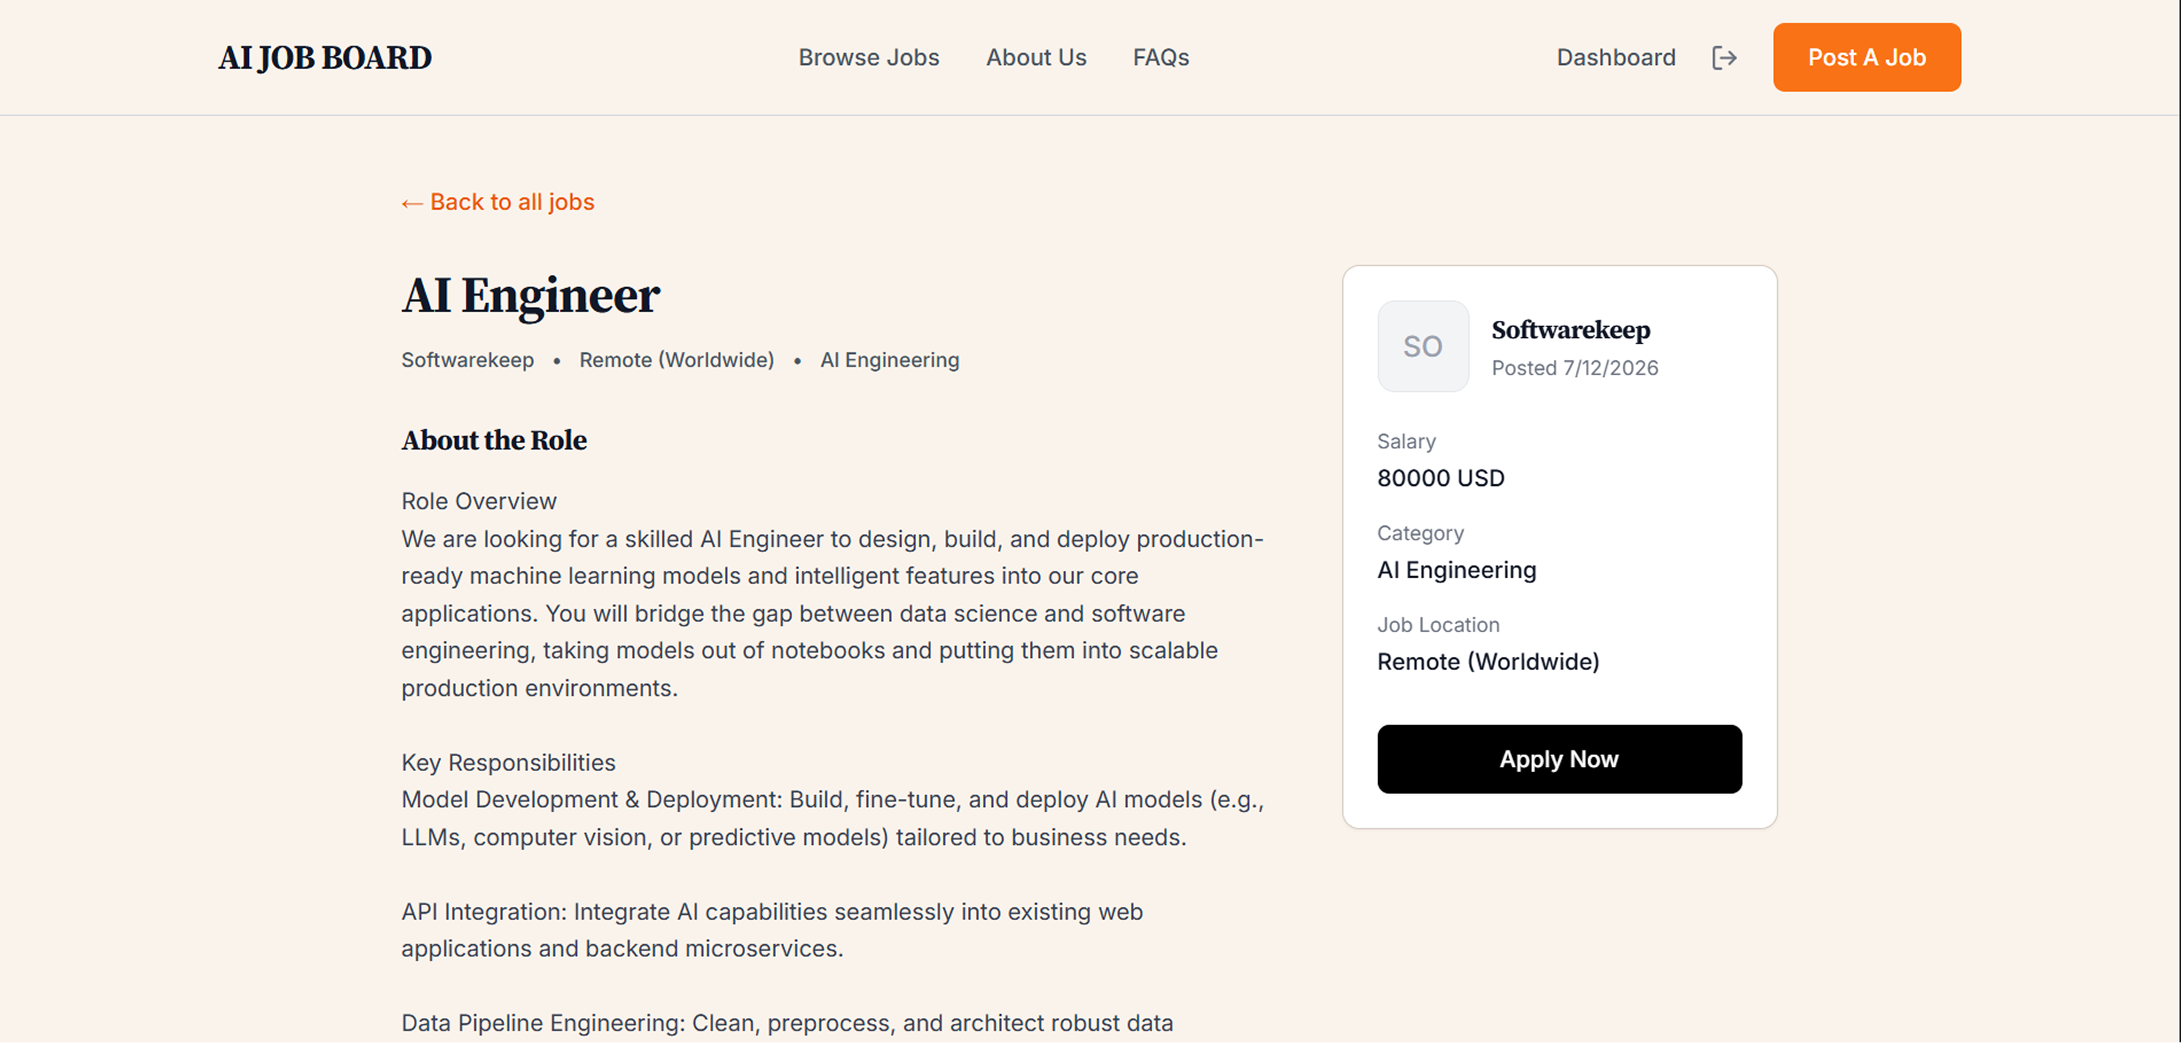
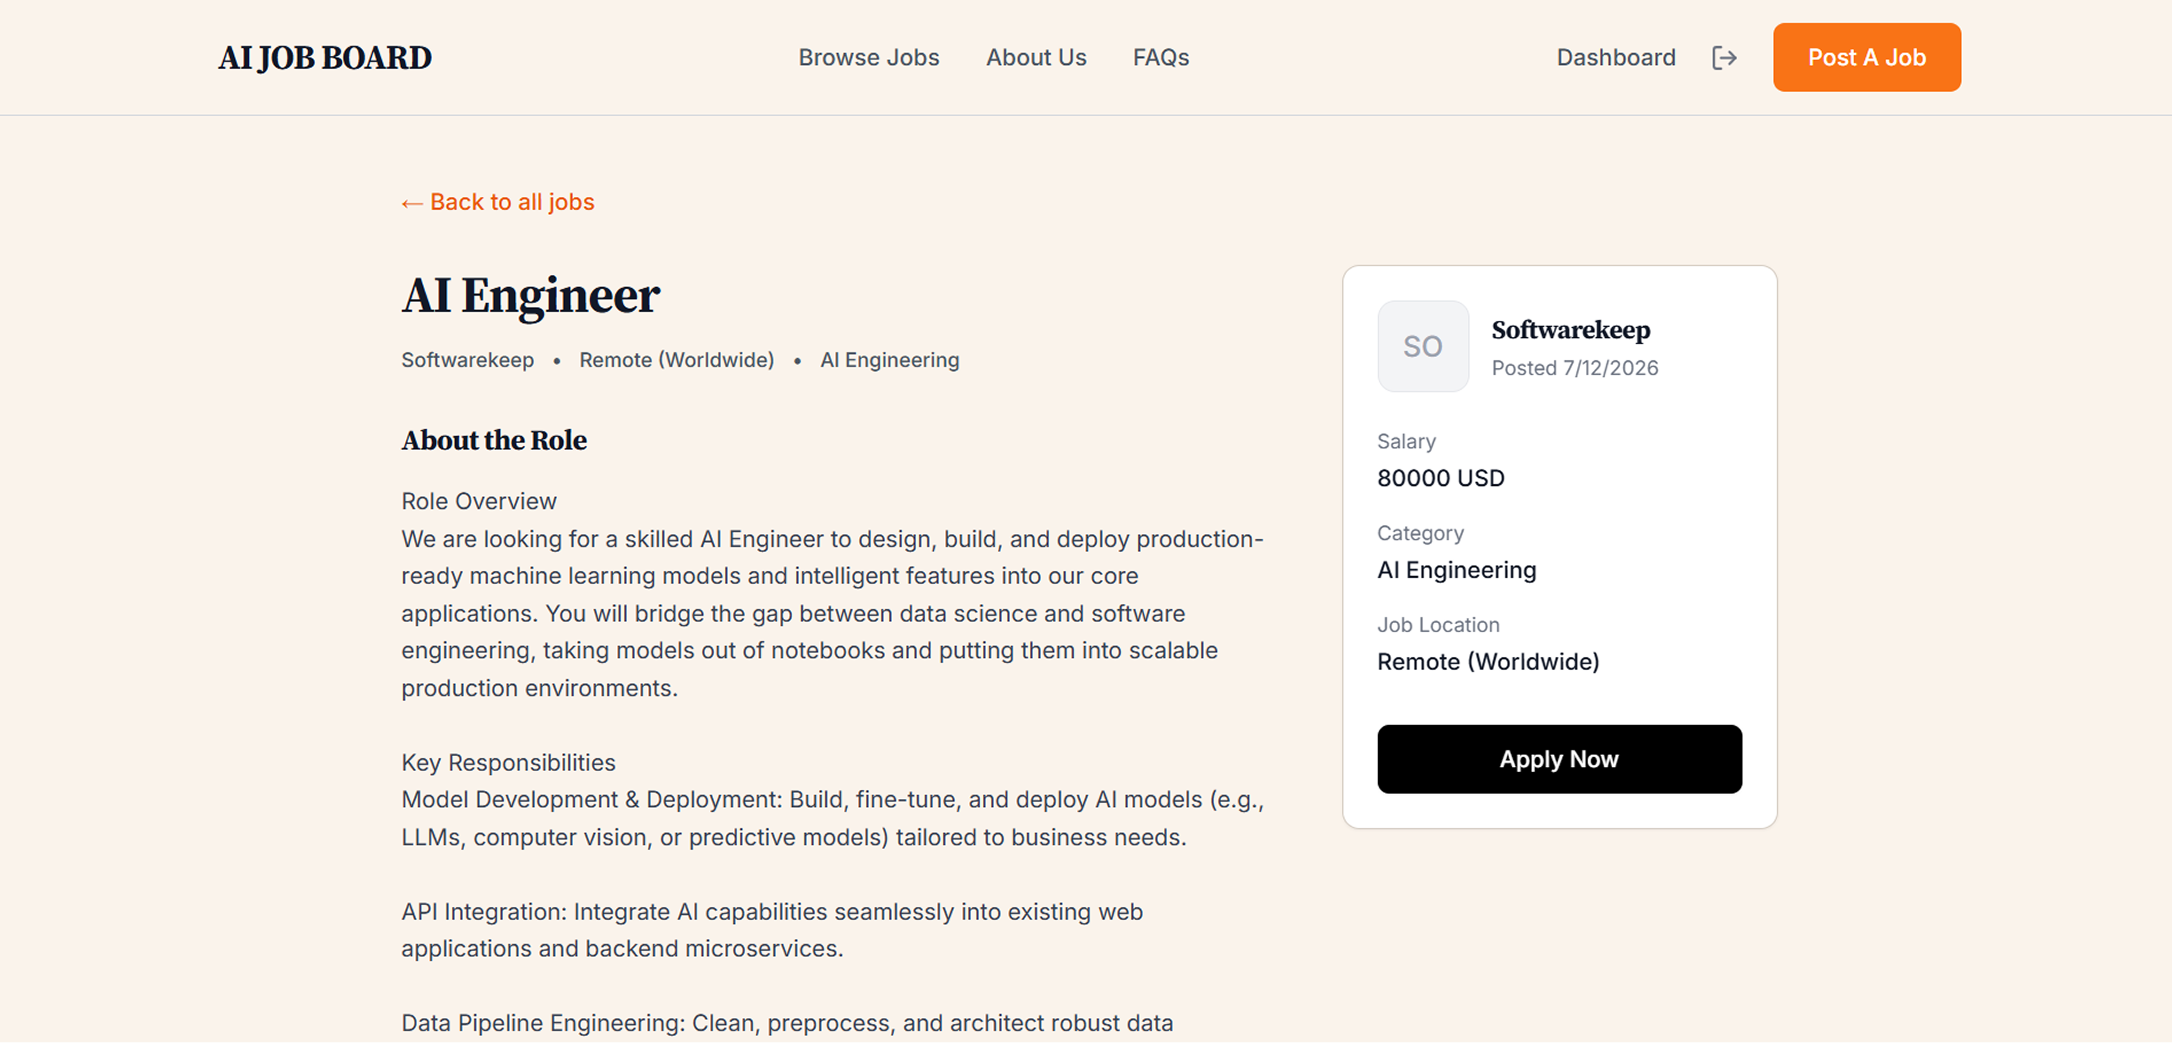
image

diff --git a/app/page.tsx b/app/page.tsx
@@ -1,13 +1,12 @@
 import Image from "next/image";
 import Link from "next/link";
-import Navbar from "@/app/Components/navbar";
 
 const projects = [
   {
     id: 1,
     title: "AI Job Board",
     tags: ["Product Design", "Development"],
-    image: "/AI Job Board.png", // replace with your images
+    image: "/AI Job Board.png",
     link: "/projects/ai-job-board",
   },
   {
@@ -22,13 +21,13 @@ const projects = [
 export default function Home() {
   return (
     <main className="min-h-screen bg-white overflow-hidden">
-      {/* Header */}
+      
 
       {/* Hero Section */}
       <section className="pt-20 pb-40 px-6">
         <div className="max-w-3xl mx-auto flex flex-col sm:flex-row items-center gap-8 justify-center">
           <div className="w-36 h-36 sm:w-40 sm:h-40 rounded-[32px] overflow-hidden bg-neutral-100 shrink-0 animate-scale-in delay-100">
-            {/* Replace with your actual image */}
+            
             <Image
               src="/Anas product Designer.png"
               alt="Muhammad Anas"

diff --git a/app/globals.css b/app/globals.css
@@ -25,6 +25,7 @@ body {
     opacity: 0;
     transform: translateY(20px);
   }
+
   to {
     opacity: 1;
     transform: translateY(0);
@@ -36,6 +37,7 @@ body {
     opacity: 0;
     transform: scale(0.94);
   }
+
   to {
     opacity: 1;
     transform: scale(1);
@@ -52,9 +54,26 @@ body {
   opacity: 0;
 }
 
-.delay-100 { animation-delay: 100ms; }
-.delay-150 { animation-delay: 150ms; }
-.delay-200 { animation-delay: 200ms; }
-.delay-300 { animation-delay: 300ms; }
-.delay-400 { animation-delay: 400ms; }
-.delay-500 { animation-delay: 500ms; }
+.delay-100 {
+  animation-delay: 100ms;
+}
+
+.delay-150 {
+  animation-delay: 150ms;
+}
+
+.delay-200 {
+  animation-delay: 200ms;
+}
+
+.delay-300 {
+  animation-delay: 300ms;
+}
+
+.delay-400 {
+  animation-delay: 400ms;
+}
+
+.delay-500 {
+  animation-delay: 500ms;
+}

diff --git a/app/projects/ai-job-board/page.tsx b/app/projects/ai-job-board/page.tsx
@@ -1,5 +1,4 @@
 import Image from "next/image";
-import Link from "next/link";
 
 export default function AIJobBoardCaseStudy() {
     return (

diff --git a/app/projects/Finease-mobile-app/page.tsx b/app/projects/Finease-mobile-app/page.tsx
@@ -1,5 +1,4 @@
 import Image from "next/image";
-import Link from "next/link";
 
 export default function Fineasemobileapp() {
     return (
